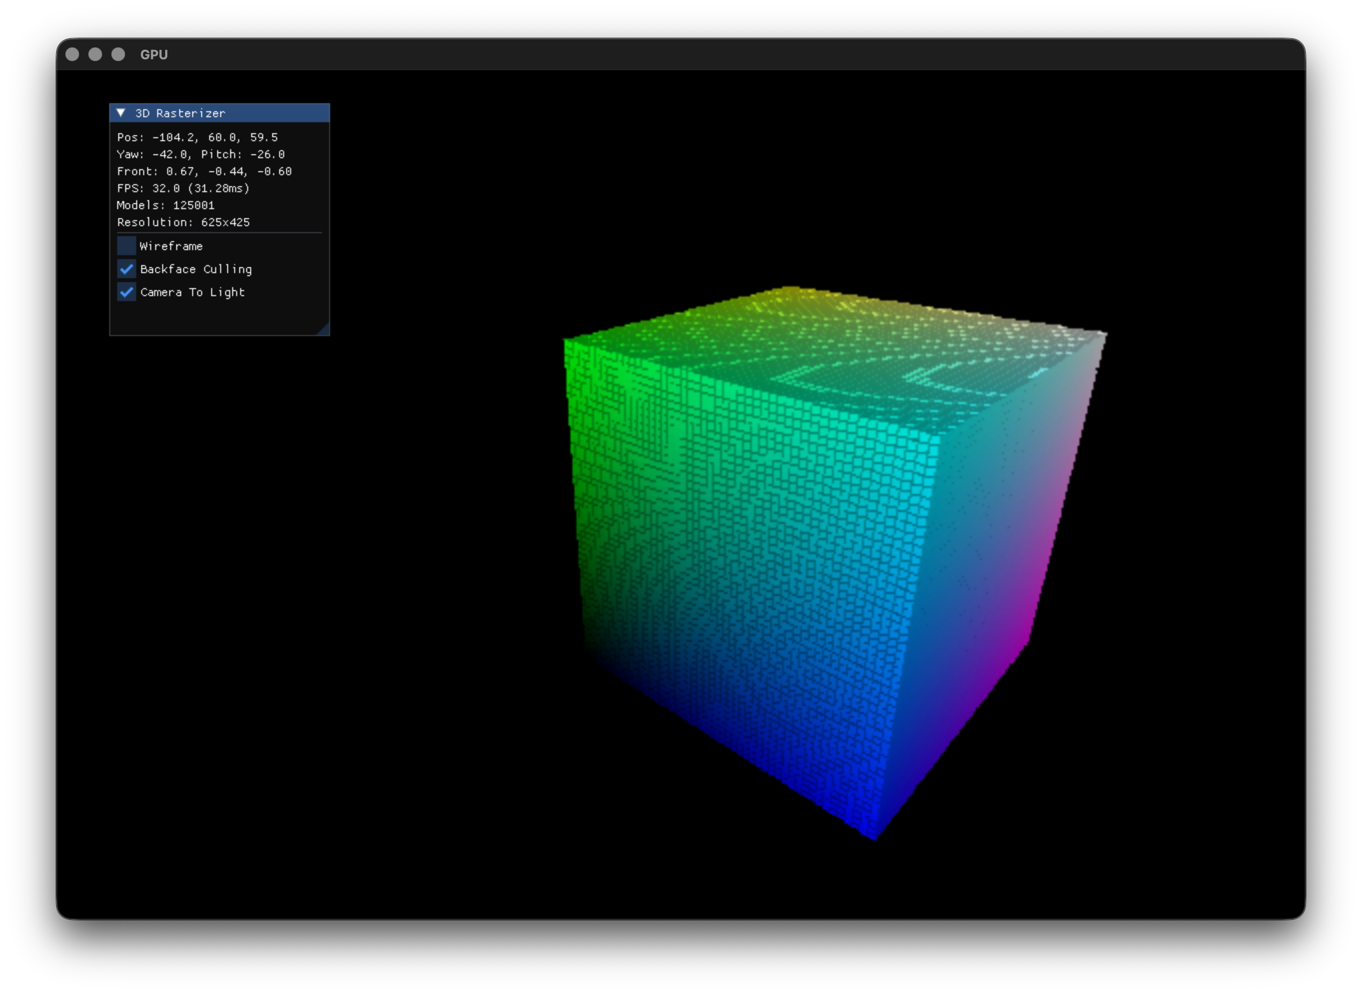
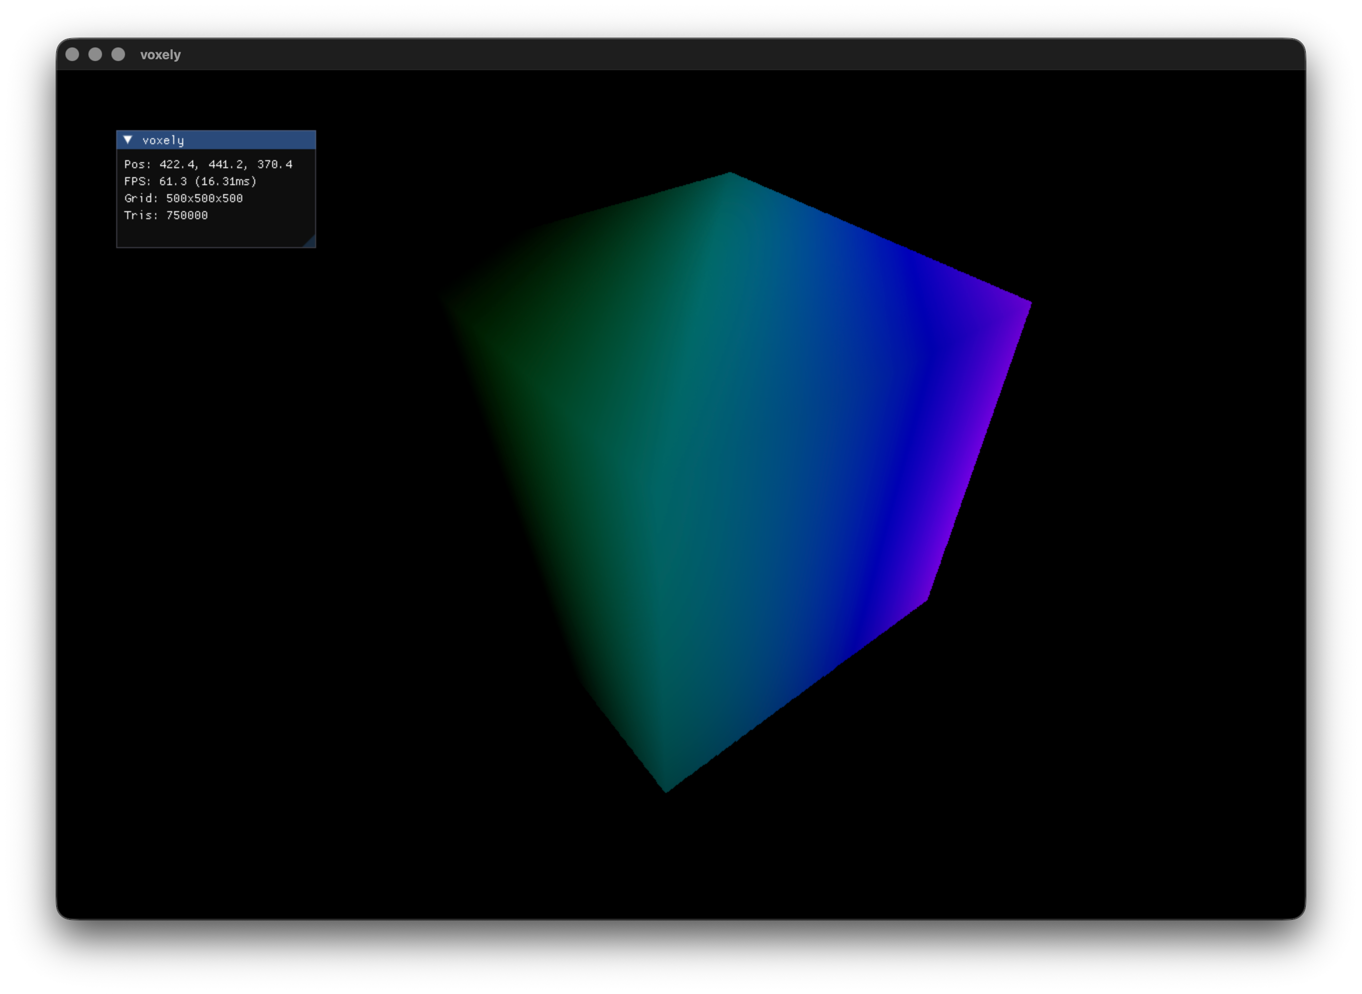
fast voxel

diff --git a/src/main.cpp b/src/main.cpp
@@ -16,7 +16,8 @@
 #define HEIGHT 850
 
 // VOXEL DATA STRUCTURE
-struct VoxelGrid {
+struct VoxelGrid
+{
     uint8_t data[GRID_SIZE][GRID_SIZE][GRID_SIZE];
     int size;
 
@@ -34,6 +35,18 @@ struct VoxelGrid {
             data[z][y][x] = ((x - size * 0.5f)*(x - size * 0.5f) + (y - size * 0.5f)*(y - size * 0.5f) + (z - size * 0.5f)*(z - size * 0.5f) < radius*radius) ? 1 : 0;
     }
 
+    void setCube(const int cx, const int cy, const int cz, int size)
+    {
+        const int half = size / 2;
+        for (int z = cz - half; z <= cz + half; z++)
+        for (int y = cy - half; y <= cy + half; y++)
+        for (int x = cx - half; x <= cx + half; x++)
+            if (x >= 0 && x < this->size &&
+                y >= 0 && y < this->size &&
+                z >= 0 && z < this->size)
+                data[z][y][x] = 1;
+    }
+
     [[nodiscard]] bool at(const int x, const int y, const int z) const
     {
         if (x < 0 || y < 0 || z < 0) return false;
@@ -44,47 +57,77 @@ struct VoxelGrid {
 
 static void buildVoxelModel(Model* m, const VoxelGrid* g)
 {
-    const int maxVox = g->size * g->size * g->size;
-    const int maxTris = maxVox * 12;
+    auto V = [&] (const float x, const float y, const float z)
+    {
+        return vec3(x - g->size * 0.5f, y - g->size * 0.5f, z - g->size * 0.5f);
+    };
+
+    auto VEC = [&] (float h, const float s, const float v)
+    {
+        h = fmodf(h, 360.0f);
+        if (h < 0) h += 360.0f;
+        const float c = v * s;
+        const float x = c * (1 - fabsf(fmodf(h / 60.0f, 2) - 1));
+        const float m = v - c;
+        float r, g, b;
+        if (h < 60)       { r = c; g = x; b = 0; }
+        else if (h < 120) { r = x; g = c; b = 0; }
+        else if (h < 180) { r = 0; g = c; b = x; }
+        else if (h < 240) { r = 0; g = x; b = c; }
+        else if (h < 300) { r = x; g = 0; b = c; }
+        else              { r = c; g = 0; b = x; }
+        return vec3(r + m, g + m, b + m);
+    };
 
     free(m->transformed_triangles);
-    m->transformed_triangles = static_cast<Triangle *>(malloc(sizeof(Triangle) * maxTris));
+    m->transformed_triangles = static_cast<Triangle *>(malloc(sizeof(Triangle) * g->size * g->size * g->size * 12));
     m->num_triangles = 0;
-    m->mat.color = vec3(0.7f, 0.8f, 1.0f);
-
-    auto V = [&](const float x, const float y, const float z) { return vec3(x - g->size * 0.5f, y - g->size * 0.5f, z - g->size * 0.5f); };
-    auto T = [&](Triangle* out, int& n, const Vec3 a, const Vec3 b, const Vec3 c) { out[n++] = {a, b, c}; };
 
     const int offsets[6][3] = { {-1,0,0}, {1,0,0}, {0,-1,0}, {0,1,0}, {0,0,-1}, {0,0,1} };
-    const int faces[6][6] = { {0,4,6, 0,6,2}, {1,3,7, 1,7,5}, {0,1,5, 0,5,4}, {2,6,7, 2,7,3}, {0,2,3, 0,3,1}, {4,5,7, 4,7,6} };
+    const int faces[6][6] = {  {0,4,6, 0,6,2}, {1,3,7, 1,7,5}, {0,1,5, 0,5,4}, {2,6,7, 2,7,3}, {0,2,3, 0,3,1}, {4,5,7, 4,7,6} };
 
-    for (int z=0; z<g->size; z++)
-    for (int y=0; y<g->size; y++)
-    for (int x=0; x<g->size; x++)
+    for (int z = 0; z < g->size; z++)
+    for (int y = 0; y < g->size; y++)
+    for (int x = 0; x < g->size; x++)
     {
-        if (!g->at(x,y,z)) continue;
-        Vec3 P[8] = { V(x, y, z), V(x+1, y, z), V(x, y+1, z), V(x+1, y+1, z), V(x, y, z+1), V(x+1, y, z+1), V(x, y+1, z+1), V(x+1, y+1, z+1) };
+        if (!g->at(x, y, z)) continue;
 
-        for (int f=0; f<6; f++)
+        const float invSize = (g->size > 1) ? 1.0f / (g->size - 1) : 1.0f;
+        // Diagonal gradient from bottom-left (low x, high z) to top-right (high x, low z)
+        const float t = (x * invSize - z * invSize + 1.0f) * 0.5f; // [-1,1] → [0,1]
+        const float clamped_t = fmaxf(0.0f, fminf(1.0f, t));
+        const Vec3 voxel_color = VEC(clamped_t * 360.0f, 1.0f, 1.0f);
+
+        const Vec3 P[8] = { V(x, y, z), V(x+1, y, z), V(x, y+1, z), V(x+1, y+1, z), V(x, y, z+1), V(x+1, y, z+1), V(x, y+1, z+1), V(x+1, y+1, z+1) };
+
+        for (int f = 0; f < 6; f++)
         {
-            const int ny = y+offsets[f][1];
-            const int nz = z+offsets[f][2];
-            const int nx = x+offsets[f][0];
+            const int nx = x + offsets[f][0];
+            const int ny = y + offsets[f][1];
+            const int nz = z + offsets[f][2];
             if (!g->at(nx, ny, nz))
             {
-                T(m->transformed_triangles, m->num_triangles, P[faces[f][0]], P[faces[f][1]], P[faces[f][2]]);
-                T(m->transformed_triangles, m->num_triangles, P[faces[f][3]], P[faces[f][4]], P[faces[f][5]]);
+                Triangle* t0 = &m->transformed_triangles[m->num_triangles++];
+                t0->v0 = P[faces[f][0]];
+                t0->v1 = P[faces[f][1]];
+                t0->v2 = P[faces[f][2]];
+                t0->color = voxel_color;
+
+                Triangle* t1 = &m->transformed_triangles[m->num_triangles++];
+                t1->v0 = P[faces[f][3]];
+                t1->v1 = P[faces[f][4]];
+                t1->v2 = P[faces[f][5]];
+                t1->color = voxel_color;
             }
         }
     }
 
-    if (m->num_triangles > 0)
-        m->transformed_triangles = static_cast<Triangle *>(realloc(m->transformed_triangles, sizeof(Triangle) * m->num_triangles));
+    if (m->num_triangles > 0) m->transformed_triangles = static_cast<Triangle *>(realloc(m->transformed_triangles, sizeof(Triangle) * m->num_triangles));
 }
 
 struct State {
     Window_t win;
-    Renderer3D r;
+    Renderer r;
     SDL_Texture* texture;
     Camera cam;
     Input input;
@@ -108,7 +151,6 @@ int main()
     state.win.title = "voxely";
     ASSERT(createWindow(&state.win));
 
-    // Streaming texture used for uploading the CPU framebuffer each frame
     state.texture = SDL_CreateTexture(
         state.win.renderer,
         SDL_PIXELFORMAT_ARGB8888,
@@ -127,12 +169,13 @@ int main()
     inputInit(&state.input);
 
     state.voxels.init();
-    state.voxels.setSphere(GRID_SIZE * 0.4f);
+    //state.voxels.setSphere(GRID_SIZE * 0.4f);
+    state.voxels.setCube(GRID_SIZE, GRID_SIZE, GRID_SIZE, GRID_SIZE);
 
     memset(&state.voxelModel, 0, sizeof(state.voxelModel));
     buildVoxelModel(&state.voxelModel, &state.voxels);
 
-    render3DInit(&state.r, &state.win, &state.cam);
+    renderInit(&state.r, &state.win, &state.cam);
 
     state.r.light_dir = vec3(0.3f, -1.0f, 0.5f);
     state.running = true;
@@ -159,12 +202,11 @@ int main()
             if (isKeyDown(&state.input, KEY_D)) cameraMove(&state.cam, state.cam.right, speed);
         }
         {
-            // Rotate light
             static float lightAngle = 0.0f;
             lightAngle += getDelta(&state.win) * 0.2f;
             state.r.light_dir = norm(vec3(-cosf(lightAngle), -0.35f, -sinf(lightAngle)));
-            render3DClear(&state.r);
-            render3DModel(&state.r, &state.voxelModel);
+            renderClear(&state.r);
+            renderModel(&state.r, &state.voxelModel);
 
             ASSERT(updateFramebuffer(&state.win, state.texture));
 
@@ -183,7 +225,7 @@ int main()
     }
 
     // Cleanup
-    render3DFree(&state.r);
+    renderFree(&state.r);
 
     if (state.voxelModel.transformed_triangles) {
         free(state.voxelModel.transformed_triangles);
